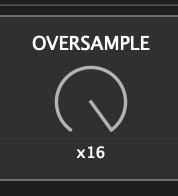
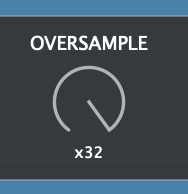
32x oversampling + enable high-quality oversampling (#90)
* Add 32x oversampling
* Enable high-quality oversampling
* Bump minor version and update docs

diff --git a/source/Parameters.h b/source/Parameters.h
@@ -17,20 +17,11 @@ namespace params
     class Parameter
     {
     public:
-        Parameter (juce::String const& id, juce::String const& label)
-            : mId (id), mLabel (label)
-        {
-        }
+        Parameter (juce::String const& id, juce::String const& label) : mId (id), mLabel (label) {}
 
-        juce::String getId() const
-        {
-            return mId;
-        }
+        juce::String getId() const { return mId; }
 
-        juce::String getLabel() const
-        {
-            return mLabel;
-        }
+        juce::String getLabel() const { return mLabel; }
 
     private:
         juce::String mId;
@@ -46,10 +37,7 @@ namespace params
         {
         }
 
-        juce::NormalisableRange<T>& getRange()
-        {
-            return mRange;
-        }
+        juce::NormalisableRange<T>& getRange() { return mRange; }
 
     private:
         juce::NormalisableRange<T> mRange;
@@ -63,10 +51,7 @@ namespace params
         {
         }
 
-        juce::StringArray& getChoices()
-        {
-            return mChoices;
-        }
+        juce::StringArray& getChoices() { return mChoices; }
 
     private:
         juce::StringArray mChoices;
@@ -83,60 +68,47 @@ namespace params
 
         juce::AudioProcessorValueTreeState::ParameterLayout createParameterLayout()
         {
-            return {
-                std::make_unique<juce::AudioParameterFloat> (mInputGain.getId(), mInputGain.getLabel(), mInputGain.getRange(), 0.0f),
-                std::make_unique<juce::AudioParameterFloat> (mOutputGain.getId(), mOutputGain.getLabel(), mOutputGain.getRange(), 0.0f),
-                std::make_unique<juce::AudioParameterFloat> (mCeiling.getId(), mCeiling.getLabel(), mCeiling.getRange(), 0.0f),
-                std::make_unique<juce::AudioParameterBool> (mLinkInOut.getId(), mLinkInOut.getLabel(), false),
-                std::make_unique<juce::AudioParameterBool> (mBypass.getId(), mBypass.getLabel(), false),
-                std::make_unique<juce::AudioParameterChoice> (mClippingType.getId(), mClippingType.getLabel(), mClippingType.getChoices(), 0),
-                std::make_unique<juce::AudioParameterChoice> (mOversampleRate.getId(), mOversampleRate.getLabel(), mOversampleRate.getChoices(), 0)
-            };
+            return { std::make_unique<juce::AudioParameterFloat> (
+                         mInputGain.getId(), mInputGain.getLabel(), mInputGain.getRange(), 0.0f),
+                     std::make_unique<juce::AudioParameterFloat> (
+                         mOutputGain.getId(), mOutputGain.getLabel(), mOutputGain.getRange(), 0.0f),
+                     std::make_unique<juce::AudioParameterFloat> (
+                         mCeiling.getId(), mCeiling.getLabel(), mCeiling.getRange(), 0.0f),
+                     std::make_unique<juce::AudioParameterBool> (mLinkInOut.getId(), mLinkInOut.getLabel(), false),
+                     std::make_unique<juce::AudioParameterBool> (mBypass.getId(), mBypass.getLabel(), false),
+                     std::make_unique<juce::AudioParameterChoice> (
+                         mClippingType.getId(), mClippingType.getLabel(), mClippingType.getChoices(), 0),
+                     std::make_unique<juce::AudioParameterChoice> (
+                         mOversampleRate.getId(), mOversampleRate.getLabel(), mOversampleRate.getChoices(), 0) };
         }
 
-        RangedParameter<float>& getInputGain()
-        {
-            return mInputGain;
-        }
+        RangedParameter<float>& getInputGain() { return mInputGain; }
 
-        RangedParameter<float>& getOutputGain()
-        {
-            return mOutputGain;
-        }
+        RangedParameter<float>& getOutputGain() { return mOutputGain; }
 
-        RangedParameter<float>& getCeiling()
-        {
-            return mCeiling;
-        }
+        RangedParameter<float>& getCeiling() { return mCeiling; }
 
-        Parameter& getBypass()
-        {
-            return mBypass;
-        }
+        Parameter& getBypass() { return mBypass; }
 
-        Parameter& getLinkInOut()
-        {
-            return mLinkInOut;
-        }
+        Parameter& getLinkInOut() { return mLinkInOut; }
 
-        ChoicingParameter& getClippingType()
-        {
-            return mClippingType;
-        }
+        ChoicingParameter& getClippingType() { return mClippingType; }
 
-        ChoicingParameter& getOversampleRate()
-        {
-            return mOversampleRate;
-        }
+        ChoicingParameter& getOversampleRate() { return mOversampleRate; }
 
     private:
         ParametersProvider()
-            : mInputGain ("InputGain", "INPUT", { -36.0f, 36.0f, 0.1f, 0.5f, true }), mOutputGain ("OutputGain", "OUTPUT", { -36.0f, 36.0f, 0.1f, 0.5f, true }), mCeiling ("Ceiling", "CEILING", { -36.0f, 0.0f, 0.1f, 1.9f, false }), mBypass ("Bypass", "BYPASS"), mLinkInOut ("LinkInOut", "IN<->OUT"), mClippingType ("ClippingType", "ALGORITHM", { "HARD", "QUINTIC", "CUBIC", "TANGENT", "ALGEBRAIC", "ARCTANGENT" }), mOversampleRate ("OversampleRate", "OVERSAMPLE", { "OFF", "x2", "x4", "x8", "x16" })
+            : mInputGain ("InputGain", "INPUT", { -36.0f, 36.0f, 0.1f, 0.5f, true }),
+              mOutputGain ("OutputGain", "OUTPUT", { -36.0f, 36.0f, 0.1f, 0.5f, true }),
+              mCeiling ("Ceiling", "CEILING", { -36.0f, 0.0f, 0.1f, 1.9f, false }), mBypass ("Bypass", "BYPASS"),
+              mLinkInOut ("LinkInOut", "IN<->OUT"),
+              mClippingType ("ClippingType",
+                             "ALGORITHM",
+                             { "HARD", "QUINTIC", "CUBIC", "TANGENT", "ALGEBRAIC", "ARCTANGENT" }),
+              mOversampleRate ("OversampleRate", "OVERSAMPLE", { "OFF", "x2", "x4", "x8", "x16", "x32" })
         {
         }
-        ~ParametersProvider()
-        {
-        }
+        ~ParametersProvider() {}
 
         RangedParameter<float> mInputGain;
         RangedParameter<float> mOutputGain;

diff --git a/source/DSP/OversampledWaveShaper.h b/source/DSP/OversampledWaveShaper.h
@@ -26,7 +26,8 @@ namespace dsp
             X2 = 0,
             X4 = 1,
             X8 = 2,
-            X16 = 3
+            X16 = 3,
+            X32 = 4
         };
 
         using OversampledWaveShaperEventHandler = std::function<void (juce::AudioBuffer<float>&)>;
@@ -45,13 +46,11 @@ namespace dsp
 
             //==============================================================================
             OversampledWaveShaper() noexcept
-                : clipper2x (1), clipper4x (2), clipper8x (3), clipper16x (4), clipper (&clipper2x)
+                : clipper2x (1), clipper4x (2), clipper8x (3), clipper16x (4), clipper32x (5), clipper (&clipper2x)
             {
             }
 
-            ~OversampledWaveShaper() override
-            {
-            }
+            ~OversampledWaveShaper() override {}
 
             //==============================================================================
             /** Inheritet implemented methods */
@@ -68,6 +67,7 @@ namespace dsp
                 clipper4x.prepare (spec);
                 clipper8x.prepare (spec);
                 clipper16x.prepare (spec);
+                clipper32x.prepare (spec);
 
                 /** Setup output gain */
                 outputGain.prepare (spec);
@@ -83,6 +83,7 @@ namespace dsp
                 clipper4x.reset();
                 clipper8x.reset();
                 clipper16x.reset();
+                clipper32x.reset();
                 outputGain.reset();
             }
 
@@ -120,15 +121,9 @@ namespace dsp
 
             // ==============================================================================
             /** Public interface */
-            void onPostInputGain (OversampledWaveShaperEventHandler const& handler)
-            {
-                mPostInputGainHandler = handler;
-            }
+            void onPostInputGain (OversampledWaveShaperEventHandler const& handler) { mPostInputGainHandler = handler; }
 
-            void onPostCeiling (OversampledWaveShaperEventHandler const& handler)
-            {
-                mPostCeilingHandler = handler;
-            }
+            void onPostCeiling (OversampledWaveShaperEventHandler const& handler) { mPostCeilingHandler = handler; }
 
             void onPostOutputGain (OversampledWaveShaperEventHandler const& handler)
             {
@@ -142,15 +137,9 @@ namespace dsp
                 mPostOutputGainHandler = nullptr;
             }
 
-            void setInputGain (float gainDbValue) noexcept
-            {
-                inputGain.setGainDecibels (gainDbValue);
-            }
+            void setInputGain (float gainDbValue) noexcept { inputGain.setGainDecibels (gainDbValue); }
 
-            void setOutputGain (float gainDbValue) noexcept
-            {
-                outputGain.setGainDecibels (gainDbValue);
-            }
+            void setOutputGain (float gainDbValue) noexcept { outputGain.setGainDecibels (gainDbValue); }
 
             void setCeiling (float ceilingDbValue) noexcept
             {
@@ -159,6 +148,7 @@ namespace dsp
                 clipper4x.setCeiling (ceilingDbValue);
                 clipper8x.setCeiling (ceilingDbValue);
                 clipper16x.setCeiling (ceilingDbValue);
+                clipper32x.setCeiling (ceilingDbValue);
             }
 
             void setClippingType (ClippingType clippingType) noexcept
@@ -168,6 +158,7 @@ namespace dsp
                 clipper4x.setClippingType (clippingType);
                 clipper8x.setClippingType (clippingType);
                 clipper16x.setClippingType (clippingType);
+                clipper32x.setClippingType (clippingType);
             }
 
             void setOversamplingRate (OversamplingRate oversamplingRate) noexcept
@@ -188,6 +179,9 @@ namespace dsp
                         break;
                     case X16:
                         clipper = &clipper16x;
+                        break;
+                    case X32:
+                        clipper = &clipper32x;
                         break;
                     default:
                         clipper = &clipper1x;
@@ -211,6 +205,7 @@ namespace dsp
             OversampledClipper<T> clipper4x;
             OversampledClipper<T> clipper8x;
             OversampledClipper<T> clipper16x;
+            OversampledClipper<T> clipper32x;
             juce::dsp::ProcessorBase* clipper; // Current clipper
 
             //==============================================================================

diff --git a/source/DSP/OversampledClipper.h b/source/DSP/OversampledClipper.h
@@ -34,13 +34,11 @@ namespace dsp
 
             //==============================================================================
             OversampledClipper (const unsigned int factor = 1) noexcept
-                : oversampler (2, factor, Oversampling::filterHalfBandPolyphaseIIR, false)
+                : oversampler (2, factor, Oversampling::filterHalfBandPolyphaseIIR, true)
             {
             }
 
-            ~OversampledClipper() override
-            {
-            }
+            ~OversampledClipper() override {}
 
             //==============================================================================
             /** Inheritet implemented methods */
@@ -53,7 +51,8 @@ namespace dsp
                 const auto oversampledSpec = createOversampledSpec (spec);
 
                 /** Setup pre-filter*/
-                *preFilter.state = *juce::dsp::IIR::Coefficients<T>::makeLowPass (oversampledSpec.sampleRate, calculateCutoff (oversampledSpec.sampleRate));
+                *preFilter.state = *juce::dsp::IIR::Coefficients<T>::makeLowPass (
+                    oversampledSpec.sampleRate, calculateCutoff (oversampledSpec.sampleRate));
                 preFilter.prepare (oversampledSpec);
 
                 /** Setup clipper*/
@@ -62,7 +61,8 @@ namespace dsp
                 setClippingType (DEFAULT_CLIPPING_TYPE);
 
                 /** Setup post-filter*/
-                *postFilter.state = *juce::dsp::IIR::Coefficients<T>::makeLowPass (oversampledSpec.sampleRate, calculateCutoff (oversampledSpec.sampleRate));
+                *postFilter.state = *juce::dsp::IIR::Coefficients<T>::makeLowPass (
+                    oversampledSpec.sampleRate, calculateCutoff (oversampledSpec.sampleRate));
                 postFilter.prepare (oversampledSpec);
             }
 
@@ -88,15 +88,9 @@ namespace dsp
 
             // ==============================================================================
             /** Public interface */
-            void setCeiling (float ceilingDbValue) noexcept
-            {
-                clipper.setThreshold (ceilingDbValue);
-            }
+            void setCeiling (float ceilingDbValue) noexcept { clipper.setThreshold (ceilingDbValue); }
 
-            void setClippingType (ClippingType clippingType) noexcept
-            {
-                clipper.setClippingType (clippingType);
-            }
+            void setClippingType (ClippingType clippingType) noexcept { clipper.setClippingType (clippingType); }
 
         private:
             //==============================================================================

diff --git a/source/Controller/WaveShaperController.h b/source/Controller/WaveShaperController.h
@@ -33,7 +33,8 @@ namespace controller
     public:
         //==============================================================================
         WaveShaperController()
-            : waveShaper(), previousLinkInOut (false), previousInputGain (0.0f), previousOutputGain (0.0f), previousCeiling (0.0f), previousClippingType (0), previousOversampleRate (0)
+            : waveShaper(), previousLinkInOut (false), previousInputGain (0.0f), previousOutputGain (0.0f),
+              previousCeiling (0.0f), previousClippingType (0), previousOversampleRate (0)
         {
         }
 
@@ -53,10 +54,7 @@ namespace controller
             waveShaper.onPostOutputGain (handler);
         }
 
-        void unsubscribeFromAll()
-        {
-            waveShaper.unsubscribeFromAll();
-        }
+        void unsubscribeFromAll() { waveShaper.unsubscribeFromAll(); }
 
         void handleParametersChange (WaveShaperPrameters parameters) noexcept
         {
@@ -104,25 +102,13 @@ namespace controller
             waveShaper.setOutputGain (previousOutputGain);
         }
 
-        void process (juce::AudioBuffer<T>& buffer)
-        {
-            waveShaper.process (buffer);
-        }
+        void process (juce::AudioBuffer<T>& buffer) { waveShaper.process (buffer); }
 
-        void reset()
-        {
-            waveShaper.reset();
-        }
+        void reset() { waveShaper.reset(); }
 
-        float getPreviousInputGain() const
-        {
-            return previousInputGain;
-        }
+        float getPreviousInputGain() const { return previousInputGain; }
 
-        float getPreviousOutputGain() const
-        {
-            return previousOutputGain;
-        }
+        float getPreviousOutputGain() const { return previousOutputGain; }
 
     private:
         //==============================================================================
@@ -174,6 +160,8 @@ namespace controller
                     return OversamplingRate::X8;
                 case 4:
                     return OversamplingRate::X16;
+                case 5:
+                    return OversamplingRate::X32;
                 default:
                     return OversamplingRate::X1;
             }

diff --git a/conanfile.py b/conanfile.py
@@ -5,7 +5,7 @@ from conan.tools.env import VirtualBuildEnv
 
 class PeakEater(ConanFile):
     name = "peakeater"
-    version = "0.6.5"
+    version = "0.7.0"
     user = "vvvar"
     channel = "testing"
     company = "T-Audio"

diff --git a/README.md b/README.md
@@ -118,7 +118,7 @@ You can read more about the difference between Hard and Soft clipping [here](htt
 
 <img src="assets/screenshots/screenshot-oversample.png" alt="oversample" height="100"/>
 
-Choose between 2x, 4x, 8x, and 16x oversampling to avoid signal aliasing. You can also turn off oversampling.
+Choose between 2x, 4x, 8x, 16x and 32x oversampling to avoid signal aliasing. You can also turn off oversampling.
 
 > **Note** High values of oversampling may hurt CPU performance.
 
